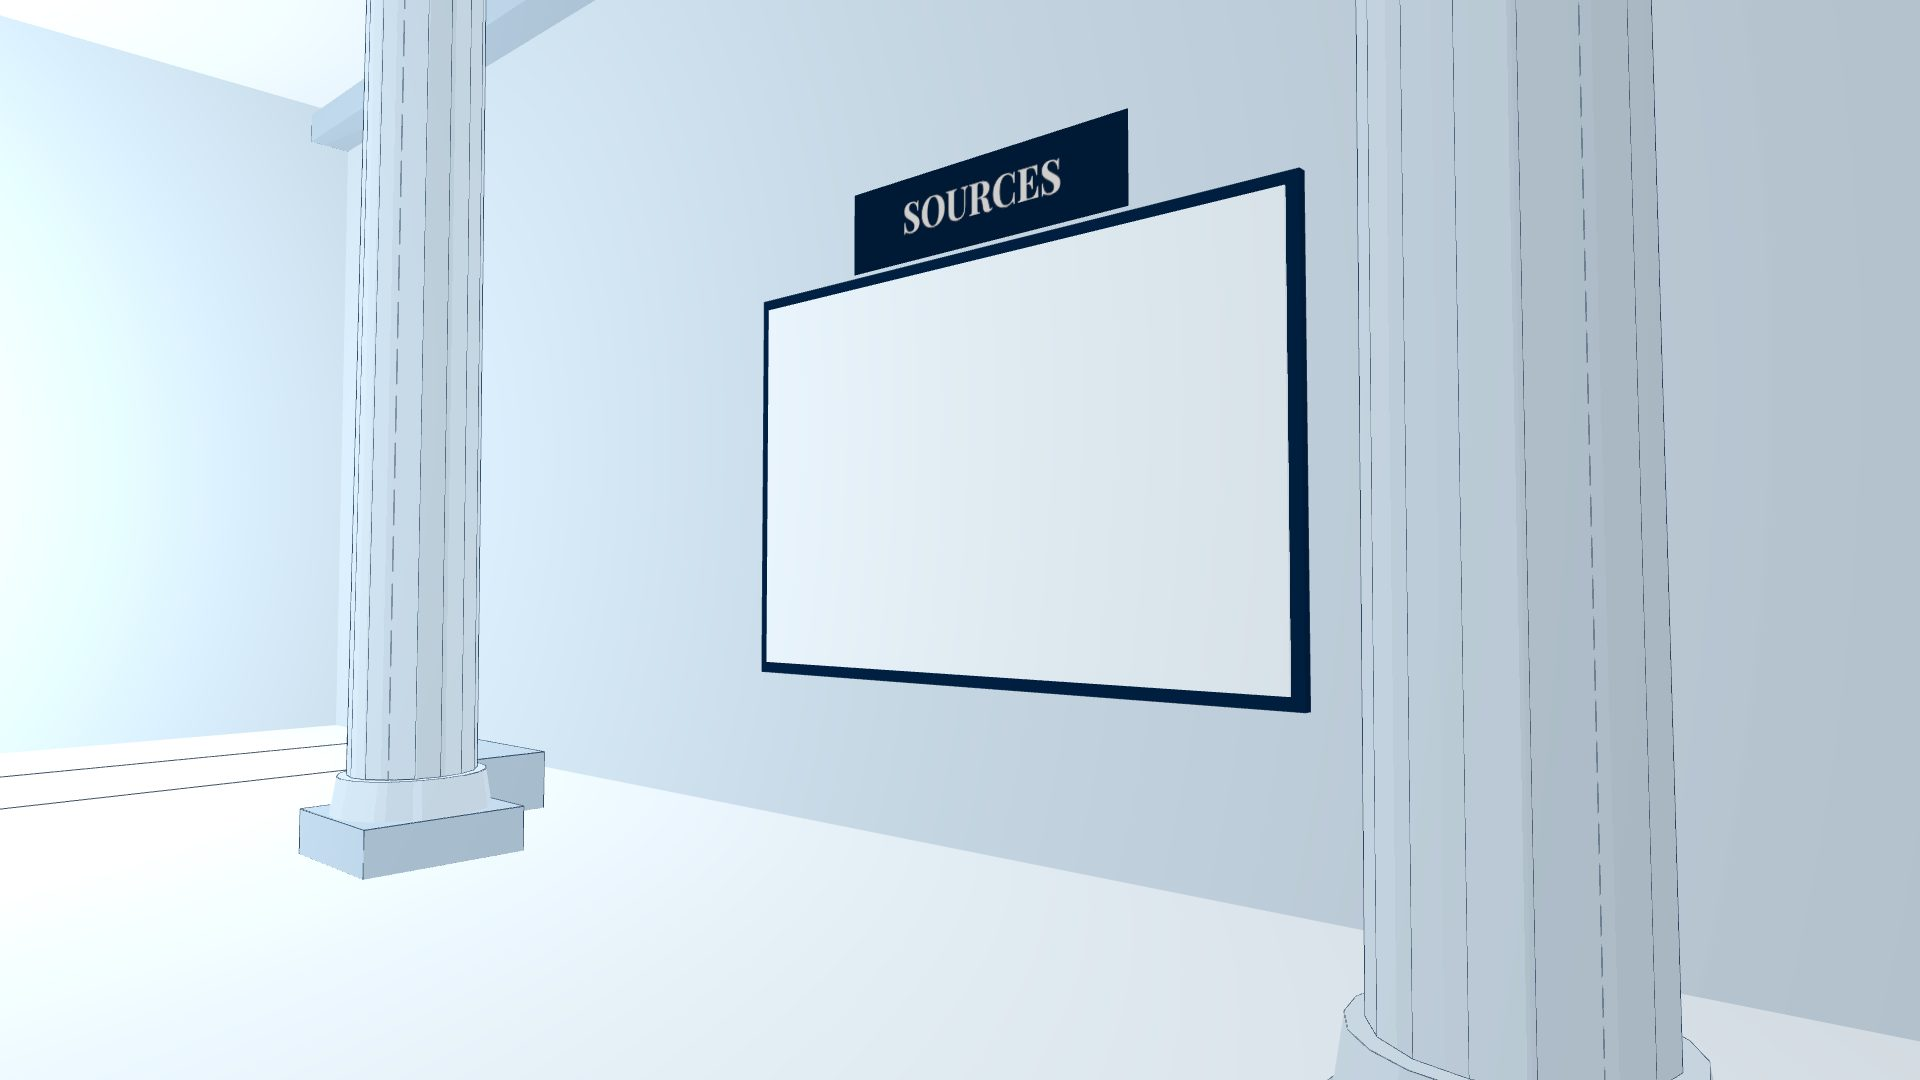
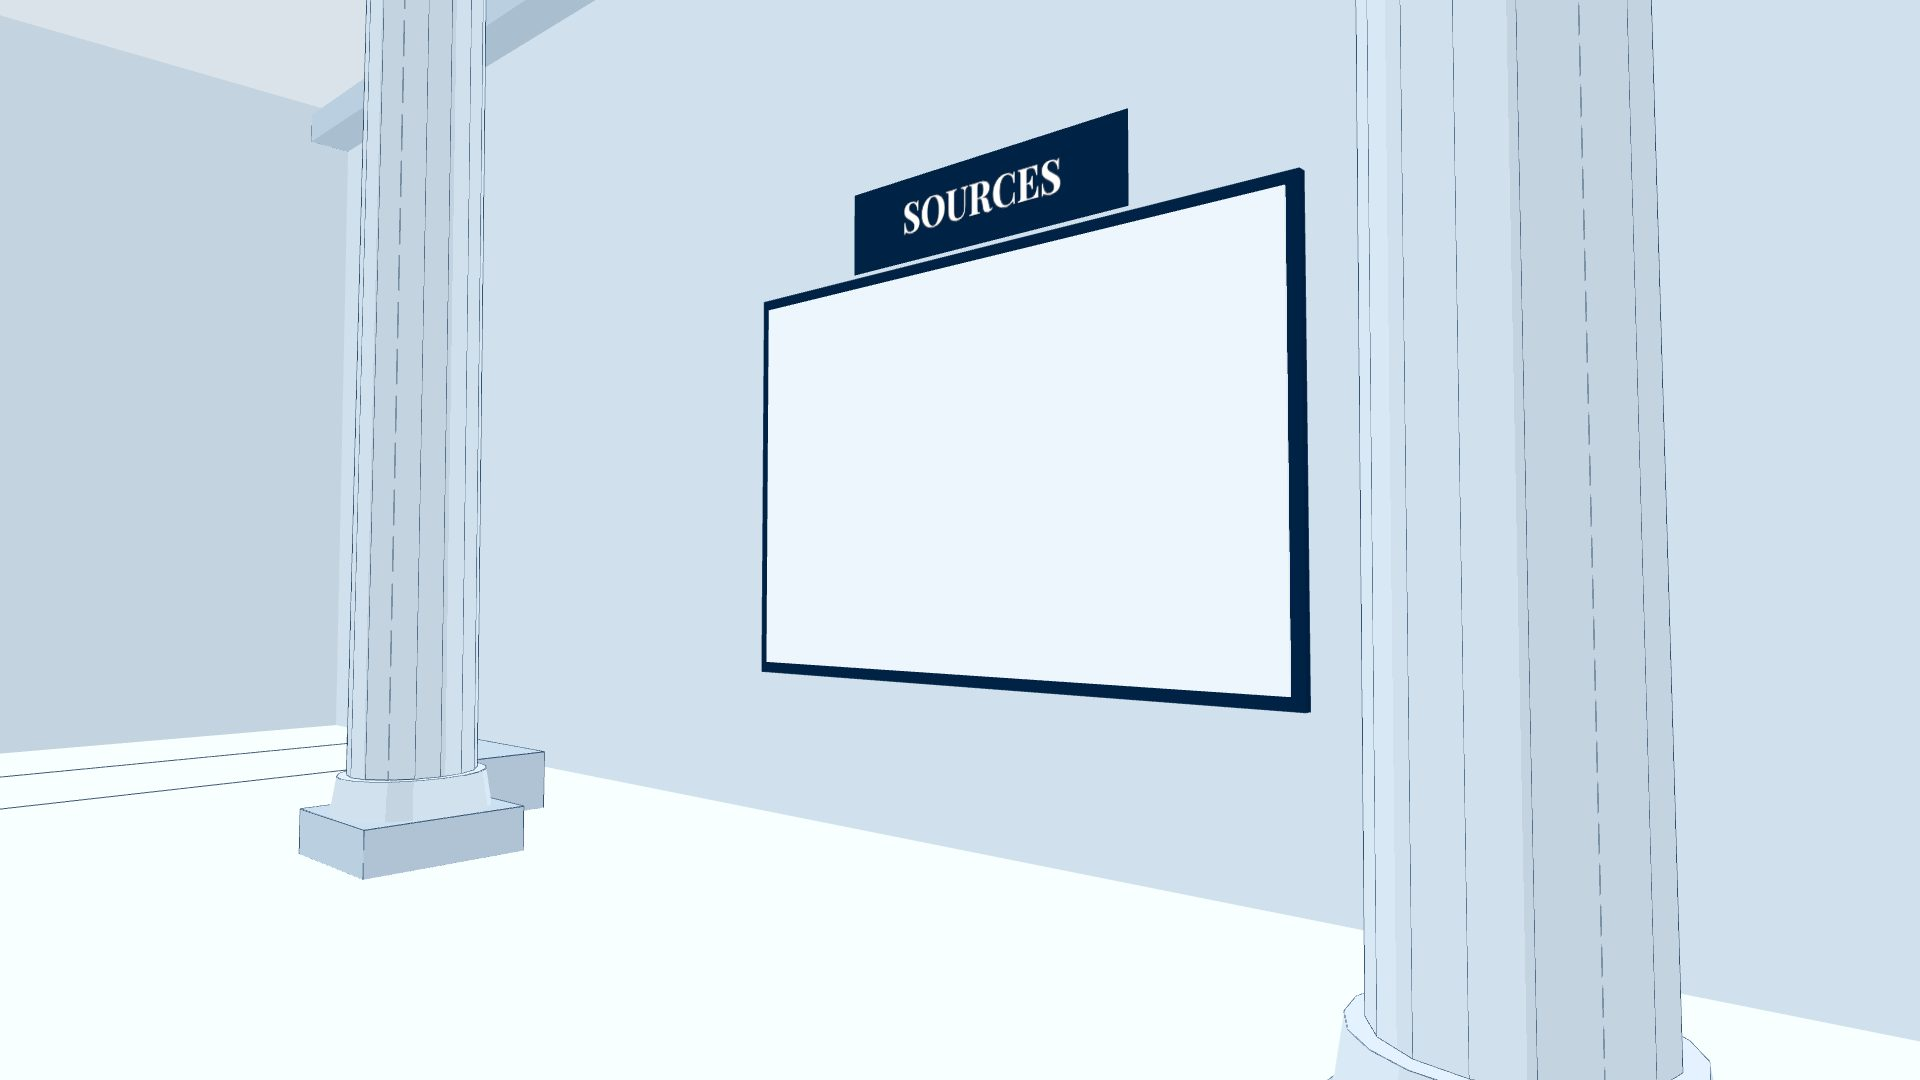
Restore the Conclusion -> References lift animation (ride to G, doors open, walk out); exit door opens only on Thank You
Claude-Session: https://claude.ai/code/session_01644THZssb1bun3dxWwWVc3

diff --git a/ibrd-bank-tour/src/director.ts b/ibrd-bank-tour/src/director.ts
@@ -52,8 +52,8 @@ function applyRest(i: number, beat: number) {
   world.lift.doors = s.id === 'lift-down' && beat < 4 ? 1 : 0;
   world.lift.display = displayFor(world.lift.y);
   world.lift.streak = 0;
-  // patch 7: the exit door stands open to daylight in both exit scenes (Sources and Thank You)
-  world.exit.open = s.kind === 'exit' ? 1 : 0;
+  // the exit door opens to daylight only on the Thank You scene
+  world.exit.open = s.id === 'ex-thanks' ? 1 : 0;
   world.exit.daylight = world.exit.open;
   setCam(poseOf(i, beat));
 }
@@ -183,16 +183,21 @@ function onNav(from: { index: number; beat: number }, to: { index: number; beat:
     return;
   }
 
-  // ---------- lift (stopped at Floor 1) -> exit: doors open, cut to the exit hall, the exit door opens to daylight ----------
+  // ---------- lift -> exit (Sources): the cabin rides from Floor 1 down to the exit hall (G), the doors open
+  // and the camera walks out to the reference wall. The exit door stays closed until Thank You. ----------
   if (fromScene.id === 'lift-down' && s.kind === 'exit' && mode !== 'jump') {
-    t.to(world.lift, { doors: 0, duration: 0.7 * MOTION }, 0);
-    fadeCut(t, () => {
-      applyRest(to.index, to.beat);
-      world.exit.open = 0;
-      world.exit.daylight = 0;
-    });
-    t.to(world.exit, { open: 1, duration: 2.0 * MOTION, ease: 'power2.inOut' }, '>');
-    t.to(world.exit, { daylight: 1, duration: 1.4 * MOTION, ease: 'power1.inOut' }, '<0.3');
+    if (Math.abs(world.lift.y - LEVEL_Y.G) > 0.01) {
+      if (world.lift.doors < 1) t.to(world.lift, { doors: 1, duration: 0.6 * MOTION }, '>');
+      t.call(() => {
+        if (!REDUCED_MOTION) world.lift.streak = 1;
+      });
+      ride(t, LEVEL_Y.G, 2.0);
+      t.call(() => {
+        world.lift.streak = 0;
+      });
+    }
+    t.to(world.lift, { doors: 0, duration: 0.9 * MOTION }, '>');
+    camTo(t, poseOf(to.index, to.beat), '>-0.2', { duration: 2.2 });
     run(t);
     return;
   }
@@ -209,7 +214,7 @@ function onNav(from: { index: number; beat: number }, to: { index: number; beat:
   const doorOpen = to.index >= IDX_DOOR ? 1 : 0;
   if (world.door.open !== doorOpen) t.to(world.door, { open: doorOpen, spill: 0, duration: 1.2 * MOTION }, doorOpen ? 0 : 1.1 * MOTION);
   if (fromScene.id === 'lift-down' || world.lift.doors > 0) t.to(world.lift, { doors: 0, duration: 0.8 * MOTION }, 0);
-  const exitOpen = s.kind === 'exit' ? 1 : 0;
+  const exitOpen = s.id === 'ex-thanks' ? 1 : 0;
   if (world.exit.open !== exitOpen) {
     t.to(world.exit, { open: exitOpen, duration: 2.2 * MOTION, ease: 'power2.inOut' }, 0.3 * MOTION);
     t.to(world.exit, { daylight: exitOpen, duration: 1.6 * MOTION, ease: 'power1.inOut' }, 0.6 * MOTION);

diff --git a/ibrd-bank-tour/src/main.tsx b/ibrd-bank-tour/src/main.tsx
@@ -26,6 +26,7 @@ import { useTour } from './state/store';
 import { SCENES } from './scenes';
 import { beatCount } from './content';
 import { perf } from './three/refs';
+import { world } from './three/world';
 import { useEdits, buildHtml } from './edit/store';
 
 const root = createRoot(document.getElementById('root')!);
@@ -45,6 +46,7 @@ if (new URLSearchParams(location.search).get('demo') === '1') {
     __scenes: SCENES.map((s) => ({ id: s.id, beats: beatCount(s.id), segment: s.segment })),
     __perf: perf,
     __edit: { store: useEdits, buildHtml },
+    __world: world,
   });
   startDirector();
   installKeys();

diff --git a/ibrd-bank-tour/README.md b/ibrd-bank-tour/README.md
@@ -149,7 +149,7 @@ src/lite/LiteBackdrop    static SVG per area (Lite + Print)     src/print/PrintV
 - **Ground floor:** the lift display shows G, 1, 2, 3. The entrance and lobby are "Floor 1" (as the brief says) and **G is the exit hall**, a separate level below (y = -10) reached only by the ride down. The exit door opens to daylight there.
 - **Building layout:** the lift is at the back of every floor, so Floor 3's context area is by the lift (its entrance) and the executive office is at the front of the building, above the portico.
 - **Transit scenes:** `ext-door`, `lift-1-2` and `lift-2-3` have 0 beats. Arriving forwards plays the animation and then auto-advances to the next scene. Pressing → during it skips ahead. Going backwards skips over them. Jumping to one replays it from the previous scene's state.
-- **Lift-down:** 3 beats (patch 7). The display reads 3 → 2 → 1, one floor per beat, and the lift stops at Floor 1. → then opens the cabin doors and goes straight to the exit (scene 58), where the exit door opens to daylight; the exit door stays open in both exit scenes. Its content uses the frosted-glass card style, standing in for the cabin's glass panel.
+- **Lift-down:** 3 beats (patch 7). The display reads 3 → 2 → 1, one floor per beat, and the lift stops at Floor 1. → then rides on to G, opens the cabin doors and walks out to the reference wall (scene 58). The exit door opens to daylight only on the Thank You scene (59). Its content uses the frosted-glass card style, standing in for the cabin's glass panel.
 - **Camera:** tweens slerp orientation (quaternions) instead of interpolating look-at targets, so wide turns never flip. Moving between levels without the lift (backwards, or jumps from the grid, tracker or hash) uses a short white fade cut instead of flying through floor slabs.
 - **Performance:** each room is merged into roughly one mesh per material plus one `LineSegments` for all ink outlines (`EdgesGeometry`). Floors outside the current zone are hidden. Measured in `test:shots`: at most 68 draw calls and about 21k triangles in any pose, against a budget of 150 / 300k. DPR is capped at 1.5, there is no post-processing, and tone mapping is off so the palette renders as specified.
 - **Labels in 3D:** canvas textures, redrawn once the fonts have loaded.

diff --git a/ibrd-bank-tour/docs/update-log.md b/ibrd-bank-tour/docs/update-log.md
@@ -641,3 +641,12 @@ Decisions:
 - The button is now **Save as new HTML**. Each save downloads a new file named with the date and time, e.g. `ibrd-bank-tour-2026-11-08-232827.html`. The opened file is never overwritten. The save dialog that could overwrite the opened file (`showSaveFilePicker`) was removed.
 - A toast names the new file. The draft is cleared after the save, because the new file holds the edits.
 - **Test** (Playwright): two saves made two files with different names (10.84 MB each); the second one reopened with the edit; no console errors.
+
+## Fix · Conclusion → References animation, exit door only on Thank You
+
+- **Problem:** patch 7 replaced the end of the Conclusion with a white cut, so the cabin no longer opened onto the exit hall. It also opened the exit door already on the Sources scene (58).
+- **Now:** on the last Conclusion beat (Floor 1), → rides the cabin on to G (about 2 s, display 1 → G), opens the cabin doors and walks the camera out to the reference wall, with no cut. The exit door stays closed on scene 58 and opens to daylight only on scene 59 (Thank You), as before patch 7.
+- **Measured** in a browser (`window.__world`): lift y 0 → -10 in 1.0-3.0 s, doors 1 → 0 in 3.0-4.3 s, exit door 0 on scene 58; on scene 59 it goes 0 → 1 in about 2.4 s.
+- **Backgrounds:** `ex-sources` (door closed) and `ex-thanks` were recaptured.
+- **The group's edited file** (`ibrd-bank-tour-2026-11-09-082506.html`, 12 text edits in scenes 35, 36, 38, 53, 54 and 56) was carried over: its edits JSON was embedded unchanged into the new build. The delivered `ibrd-bank-tour.html` therefore has the fix and all 12 edits; its PDF (85 pages) was printed from that file, and `check-print` on it reported 0 failures.
+- `__world` was added to the test hook in `main.tsx`.

diff --git a/ibrd-bank-tour/docs/print-check.md b/ibrd-bank-tour/docs/print-check.md
@@ -1,6 +1,6 @@
 # Print check (npm run check-print)
 
-85 pages, 4776 text nodes checked. Lowest contrast found: 4.85:1. References printed on pages 81–85 (64 entries).
+85 pages, 4821 text nodes checked. Lowest contrast found: 4.85:1. References printed on pages 81–85 (64 entries).
 
 **Result: no failures.**
 
